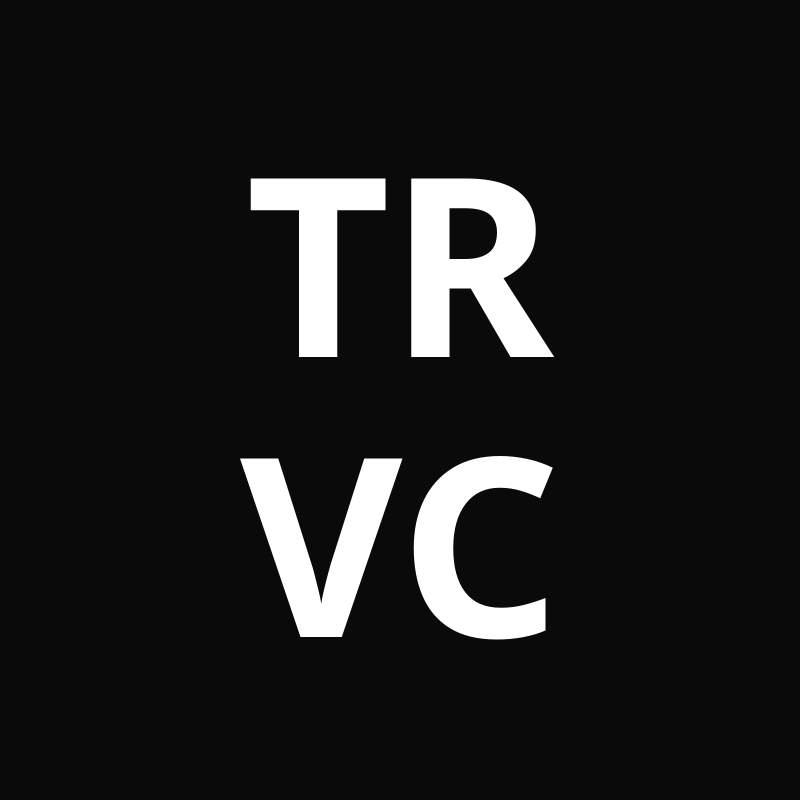
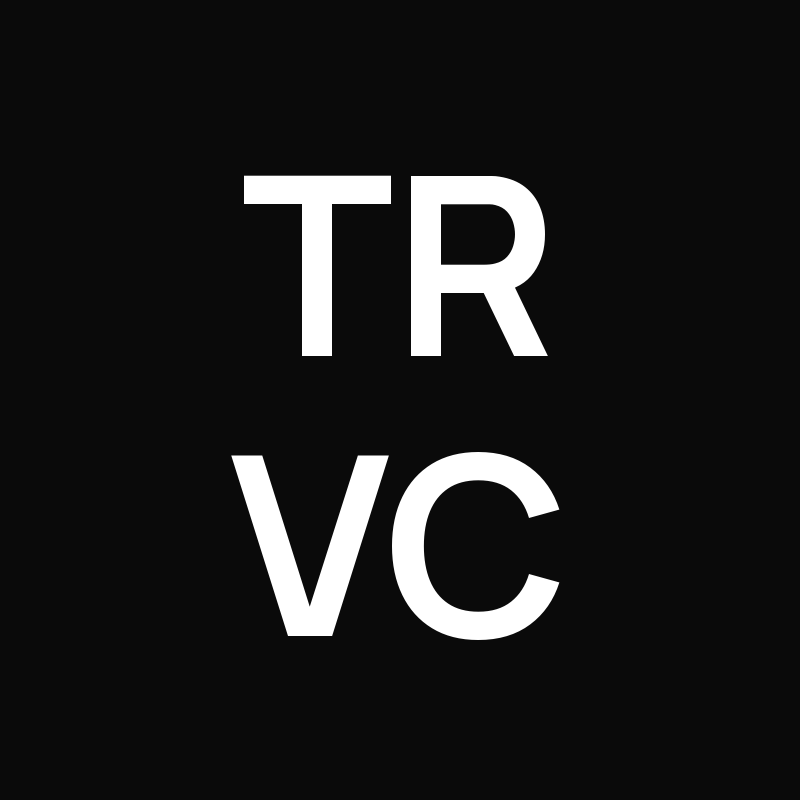
Actualizar tipografía de OG Image a Manrope

Changed region(s): [[0.2812, 0.5625, 0.7188, 0.8125], [0.2812, 0.2188, 0.6875, 0.4688], [0.625, 0.4062, 0.6875, 0.4375]]

diff --git a/index.html b/index.html
@@ -12,7 +12,7 @@
     <!-- Open Graph / WhatsApp / LinkedIn Preview -->
     <meta property="og:title" content="Roberto Vargas | Data & AI Engineer">
     <meta property="og:description" content="Soluciones de Inteligencia Artificial y Data Engineering para escalar proyectos.">
-    <meta property="og:image" content="https://titorvc.github.io/assets/og-image.png?v=4">
+    <meta property="og:image" content="https://titorvc.github.io/assets/og-image.png?v=5">
     <meta property="og:url" content="https://titorvc.github.io/">
     <meta property="og:type" content="website">
 
@@ -20,7 +20,7 @@
     <meta name="twitter:card" content="summary_large_image">
     <meta name="twitter:title" content="Roberto Vargas | Data & AI Engineer">
     <meta name="twitter:description" content="Soluciones de Inteligencia Artificial y Data Engineering para escalar proyectos.">
-    <meta name="twitter:image" content="https://titorvc.github.io/assets/og-image.png?v=4">
+    <meta name="twitter:image" content="https://titorvc.github.io/assets/og-image.png?v=5">
 </head>
 <body>
     <nav class="navbar">
